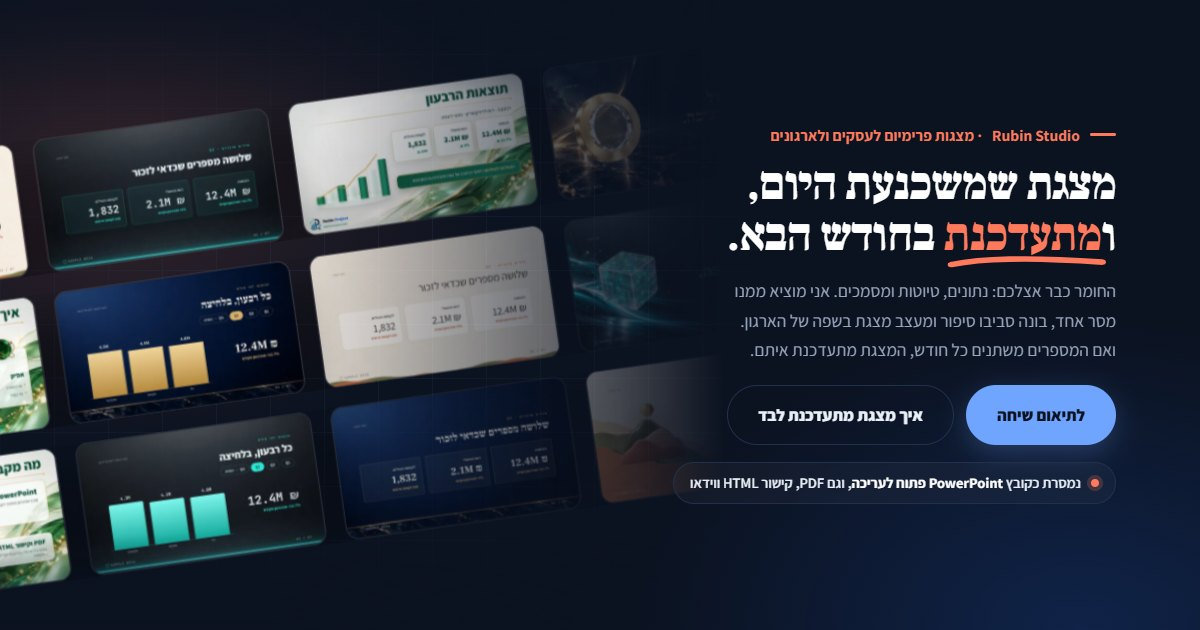
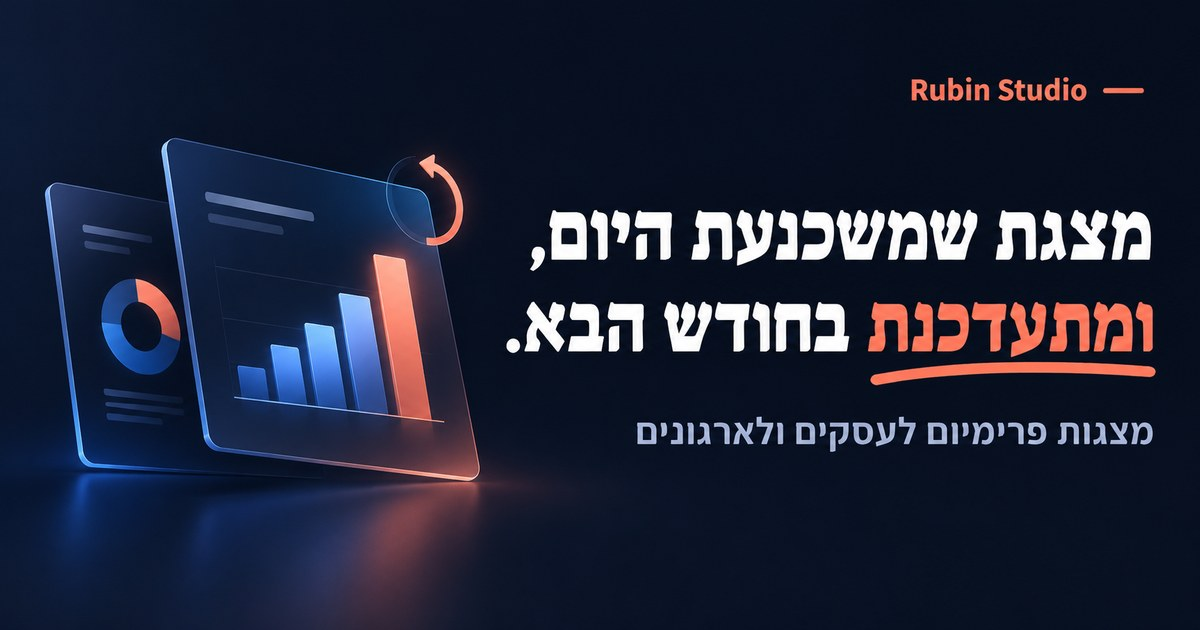
Rubin Studio: new WhatsApp preview image

diff --git a/studio/index.html b/studio/index.html
@@ -11,7 +11,7 @@
 <meta property="og:site_name" content="Rubin Project">
 <meta property="og:title" content="Rubin Studio | מצגות פרימיום לעסקים ולארגונים">
 <meta property="og:description" content="מצגת שמשכנעת היום, ומתעדכנת בחודש הבא. קובץ PowerPoint פתוח לעריכה, PDF, קישור HTML ווידאו.">
-<meta property="og:image" content="https://www.rubinproject.com/img/og-studio.jpg?v=7">
+<meta property="og:image" content="https://www.rubinproject.com/img/og-studio.jpg?v=8">
 <meta property="og:image:type" content="image/jpeg">
 <meta property="og:image:width" content="1200">
 <meta property="og:image:height" content="630">
@@ -21,7 +21,7 @@
 <meta name="twitter:card" content="summary_large_image">
 <meta name="twitter:title" content="Rubin Studio | מצגות פרימיום לעסקים ולארגונים">
 <meta name="twitter:description" content="מצגת שמשכנעת היום, ומתעדכנת בחודש הבא.">
-<meta name="twitter:image" content="https://www.rubinproject.com/img/og-studio.jpg?v=7">
+<meta name="twitter:image" content="https://www.rubinproject.com/img/og-studio.jpg?v=8">
 <script>document.documentElement.classList.add('js');</script>
 <link rel="preconnect" href="https://fonts.googleapis.com">
 <link rel="preconnect" href="https://fonts.gstatic.com" crossorigin>
